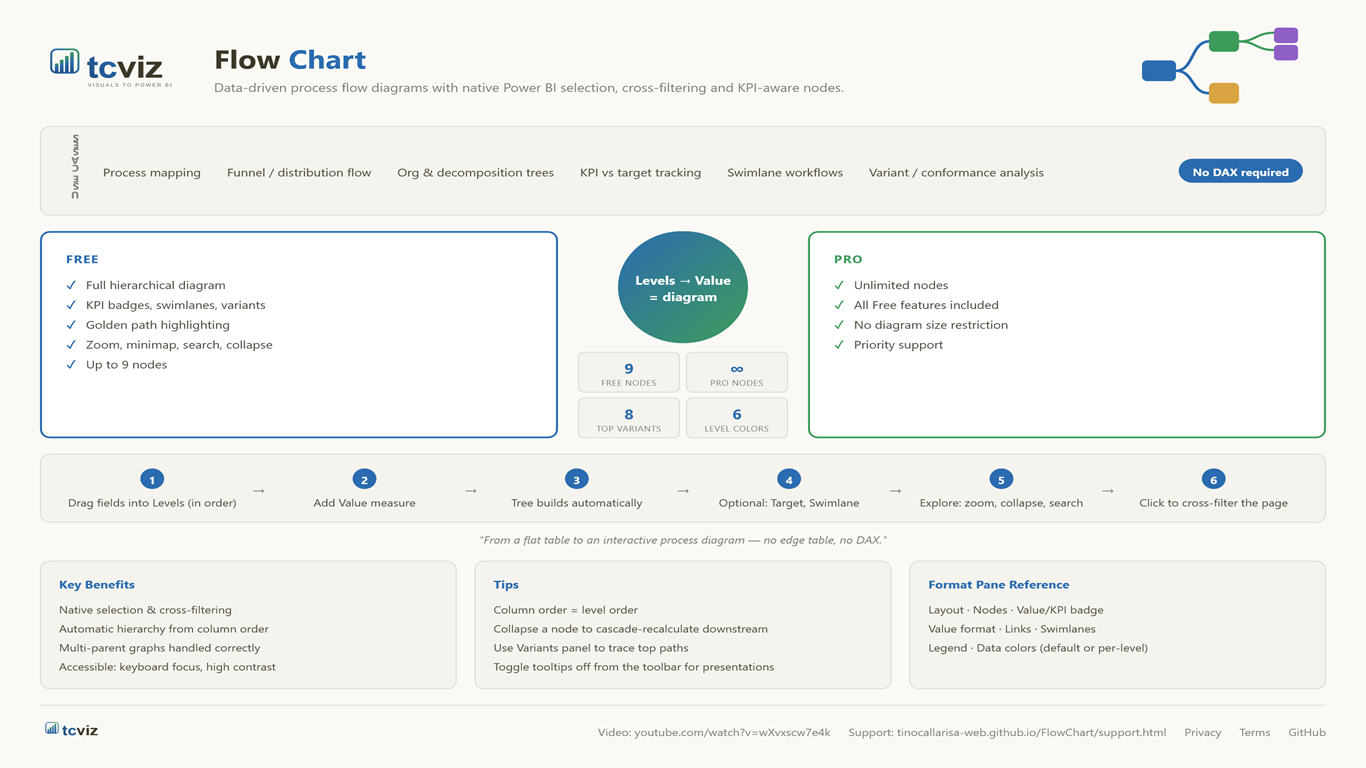
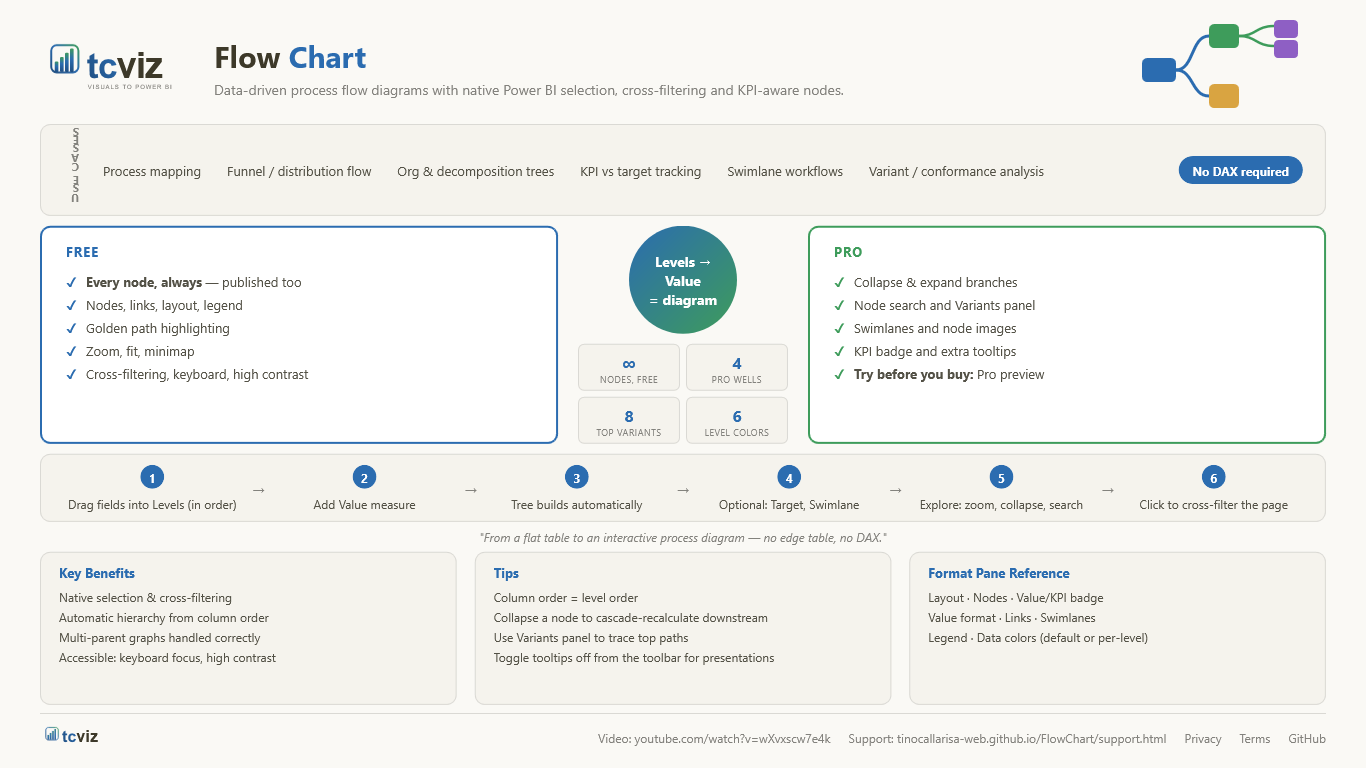
docs: los terminos seguian describiendo el reparto Free/Pro de 1.0.x
La reseña de OKviz del 18-09 dice que el tier gratuito corta el diagrama a un
numero pequeño de nodos. Es cierto de lo que estaba publicado ese dia: 1.1.0.0,
que quito el tope, salio el 22-09, cuatro dias despues. Pero al comprobarlo se ve
que la documentacion viva sigue diciendo lo de antes, y ahi no hay excusa de
fechas.

- docs/terms.html: el reparto era el inverso del real. Decia que swimlanes,
  badges KPI, panel de variantes, colapsar y buscar son gratuitos y que lo unico
  que compra el Pro es pasar de 9 nodos. Hoy el diagrama se dibuja entero
  siempre y lo Pro son esas herramientas. Quien leyera el EULA concluia que el
  Pro no da nada. Es el documento vinculante, ademas.
- docs/support.html: la cabecera decia "Version 1.0.2.0" y el cuerpo "documented
  against version 1.0.2.0". El revisor lo cita como pega y sigue siendo verdad.

Reparto comprobado contra el codigo, no contra el changelog: los pozos Pro salen
de parseDataView (swimlane, levelImages, target, tooltips) y las herramientas de
proNow() en visual.ts (buscador, panel de variantes, colapsar). Minimapa, zoom y
fit son gratuitos.

diff --git a/docs/terms.html b/docs/terms.html
@@ -211,44 +211,49 @@
 
   <div class="card">
     <h3>Free tier <span class="badge badge-free">Free</span></h3>
-    <p>Available to every Power BI user at no charge, with <strong>every feature unlocked</strong>:</p>
+    <p>Available to every Power BI user at no charge. <strong>The diagram is always drawn whole:</strong>
+    there is no node cap, nothing is hidden and nothing is watermarked in a published report.</p>
     <ul>
       <li>Data-driven process diagram built from the Levels field wells, with automatic branch merging</li>
       <li>Horizontal or vertical layout, per-layer centring and crossing-minimisation</li>
       <li>Cycle detection, drawn as discontinuous loops</li>
       <li>Dominant path emphasis and top end-to-end variant highlighting</li>
-      <li>Variants panel with the top 8 paths by value</li>
-      <li>Collapse and expand branches, with cascading value recalculation</li>
-      <li>Zoom, native scroll, minimap, in-diagram search and fit to view</li>
-      <li>KPI badges (value against target, with variation %)</li>
-      <li>Swimlane bands across the levels</li>
-      <li>Level images from base64 strings in your model</li>
+      <li>Zoom, native scroll, minimap and fit to view</li>
       <li>Native selection, cross-filtering, context menu, standard and report page tooltips</li>
       <li>Keyboard focus and high contrast support</li>
       <li>The complete Format Pane: layout, nodes, badges, value format, links, swimlanes, legend, data colours</li>
     </ul>
-    <p><strong>The only limit is size:</strong> a Free diagram renders up to <strong>9 nodes</strong>, kept as a
-    connected sub-tree from the root so the diagram remains coherent, with a message reporting how many nodes
-    were omitted.</p>
 
     <h3 style="margin-top:20px;">Pro tier <span class="badge badge-pro">Pro</span></h3>
-    <p>Requires an active AppSource subscription. Identical to Free in every feature, with the node limit
-    removed: <strong>the 9-node cap</strong> (the Power BI data row limit still applies).</p>
+    <p>Requires an active AppSource subscription. Pro does not reveal data the Free tier withholds &mdash;
+    it adds the tools that only start to matter once a diagram is large, and the analyst field wells:</p>
+    <ul>
+      <li>Collapse and expand branches, with cascading value recalculation</li>
+      <li>In-diagram node search</li>
+      <li>Variants panel with the top 8 end-to-end paths by value</li>
+      <li>Swimlane bands across the levels</li>
+      <li>Level images from base64 strings in your model</li>
+      <li>KPI badges (value against target, with variation %)</li>
+      <li>Extra tooltip fields</li>
+    </ul>
+    <p>While you edit a report without a licence, a Pro feature you turn on is drawn <em>working</em> under a
+    &ldquo;Pro preview&rdquo; watermark naming it. Reading view always shows the Free result.</p>
   </div>
 
   <table>
     <thead><tr><th>Feature</th><th>Free</th><th>Pro</th></tr></thead>
     <tbody>
-      <tr><td>Nodes per diagram</td><td>Up to 9</td><td>No node cap (Power BI row limit applies)</td></tr>
+      <tr><td>Nodes per diagram</td><td>No cap (Power BI row limit applies)</td><td>No cap (Power BI row limit applies)</td></tr>
       <tr><td>Process diagram, branch merging, cycle detection</td><td>&#10003;</td><td>&#10003;</td></tr>
       <tr><td>Dominant path and top variant highlighting</td><td>&#10003;</td><td>&#10003;</td></tr>
-      <tr><td>Variants panel (top 8 paths)</td><td>&#10003;</td><td>&#10003;</td></tr>
-      <tr><td>Collapse / expand with value recalculation</td><td>&#10003;</td><td>&#10003;</td></tr>
-      <tr><td>Zoom, minimap, search, fit to view</td><td>&#10003;</td><td>&#10003;</td></tr>
-      <tr><td>KPI badges and swimlanes</td><td>&#10003;</td><td>&#10003;</td></tr>
+      <tr><td>Zoom, minimap, fit to view</td><td>&#10003;</td><td>&#10003;</td></tr>
       <tr><td>Cross-filtering, context menu, tooltips</td><td>&#10003;</td><td>&#10003;</td></tr>
       <tr><td>Keyboard focus, high contrast</td><td>&#10003;</td><td>&#10003;</td></tr>
       <tr><td>Full Format Pane</td><td>&#10003;</td><td>&#10003;</td></tr>
+      <tr><td>Collapse / expand with value recalculation</td><td>&mdash;</td><td>&#10003;</td></tr>
+      <tr><td>Node search</td><td>&mdash;</td><td>&#10003;</td></tr>
+      <tr><td>Variants panel (top 8 paths)</td><td>&mdash;</td><td>&#10003;</td></tr>
+      <tr><td>Swimlanes, level images, KPI badges, extra tooltips</td><td>&mdash;</td><td>&#10003;</td></tr>
     </tbody>
   </table>
 

diff --git a/docs/support.html b/docs/support.html
@@ -219,11 +219,11 @@
 <div class="wrap">
 
 <h1>Support &amp; Documentation</h1>
-<span class="verpill">Version 1.0.2.0 &middot; <a href="changelog.html">See what&rsquo;s new</a></span>
+<span class="verpill">Version 1.1.0.0 &middot; <a href="changelog.html">See what&rsquo;s new</a></span>
 <p>Flow Chart turns a set of ordered columns into a process diagram. Each column you drop into
 <strong>Levels</strong> becomes one stage of the flow, repeated values merge into shared branches, and the
 <strong>Value</strong> measure sets the weight of every node and link. Everything below is documented against
-version 1.0.2.0 of the visual.</p>
+version 1.1.0.0 of the visual.</p>
 
 <div class="cta">
   <a class="btn btn-primary" href="#quickstart">Get started</a>

diff --git a/docs/APPSOURCE-LISTING.md b/docs/APPSOURCE-LISTING.md
@@ -42,7 +42,7 @@ THE DIAGRAM
 • Colour by level or a single colour, with a legend
 • Zoom, fit and a minimap for diagrams that outgrow the canvas
 
-INTEGRATED WITH POWER BI
+NATIVE INTEGRATION
 
 • Click a node or a link to cross-filter the report; the rest of the page follows
 • Filters from other visuals are reflected in the diagram
